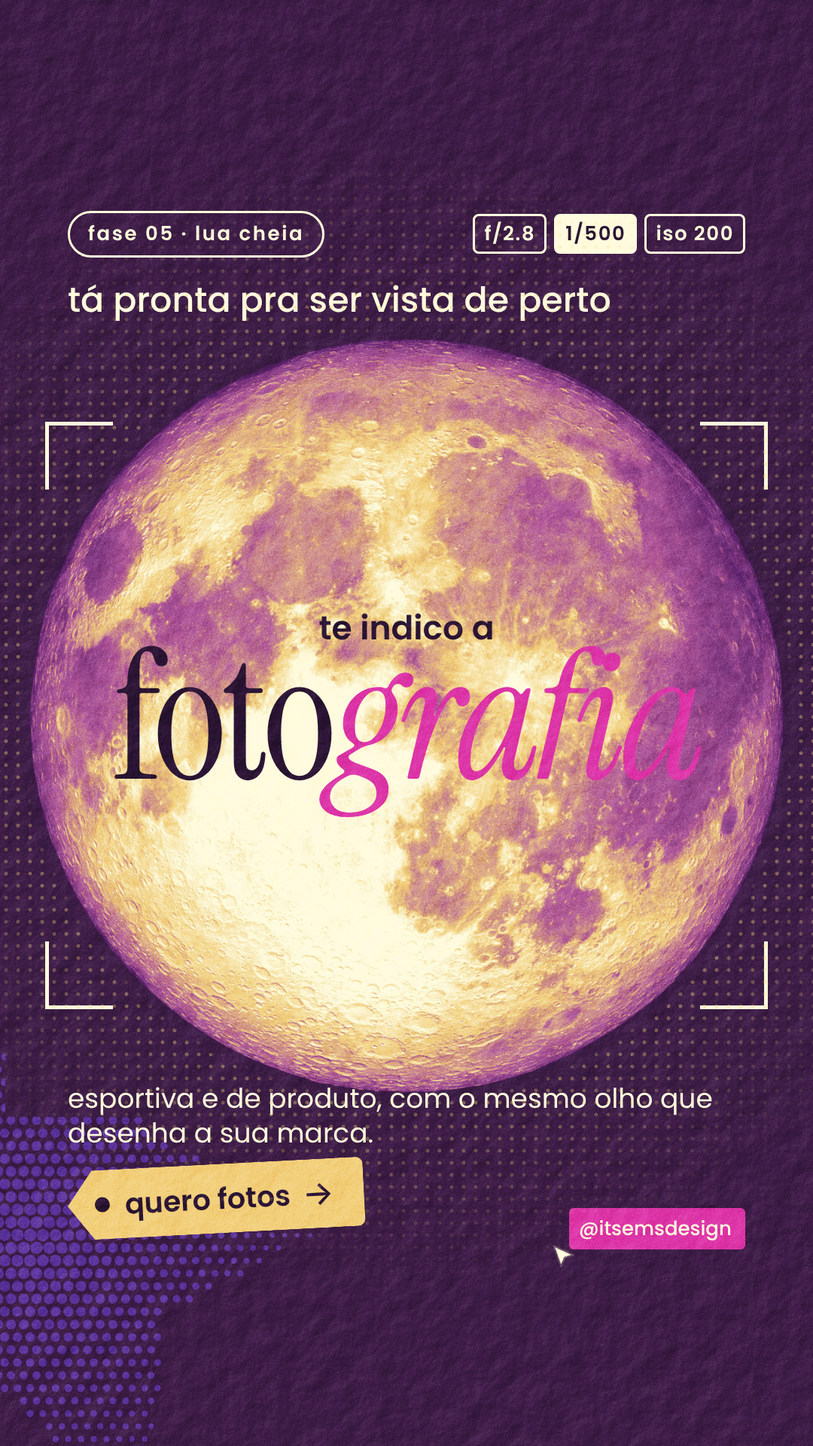
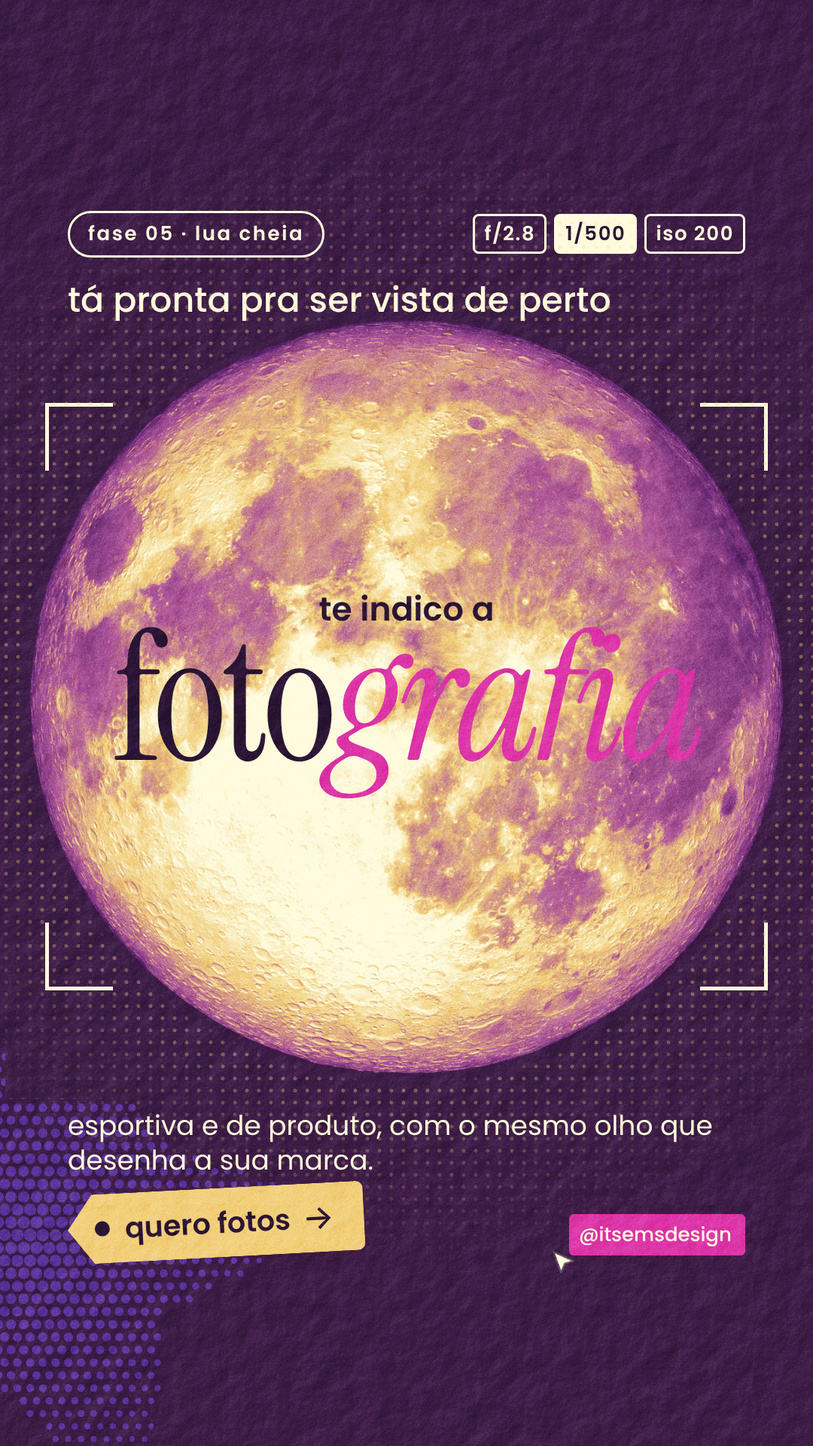
EMS stories: story 6 com o texto de apoio abaixo da lua
Claude-Session: https://claude.ai/code/session_01CmCiK84raHTtZ6V144shua

diff --git a/Emi/ems-stories-servicos/projeto/estilo.css b/Emi/ems-stories-servicos/projeto/estilo.css
@@ -99,7 +99,7 @@ h1 em, h2 em { display: block; font-style: italic; color: var(--destaque); }
 
 /* ---------- 6 · fotografia: o título escrito na lua ---------- */
 .s6 { --fundo: var(--ameixa); --destaque: var(--pink); }
-.s6 .foco { left: 60px; top: 560px; width: 960px; height: 780px; background:
+.s6 .foco { left: 60px; top: 535px; width: 960px; height: 780px; background:
   linear-gradient(var(--ivory) 0 0) 0 0 / 90px 5px, linear-gradient(var(--ivory) 0 0) 0 0 / 5px 90px,
   linear-gradient(var(--ivory) 0 0) 100% 0 / 90px 5px, linear-gradient(var(--ivory) 0 0) 100% 0 / 5px 90px,
   linear-gradient(var(--ivory) 0 0) 0 100% / 90px 5px, linear-gradient(var(--ivory) 0 0) 0 100% / 5px 90px,
@@ -108,10 +108,12 @@ h1 em, h2 em { display: block; font-style: italic; color: var(--destaque); }
 .s6 .exif { right: 90px; top: 284px; display: flex; gap: 10px; font-size: 26px; font-weight: 600; letter-spacing: .06em; }
 .s6 .exif span { border: 3px solid var(--ivory); border-radius: 8px; padding: 4px 12px; }
 .s6 .exif span:nth-child(2) { background: var(--ivory); color: var(--tinta); }
-.s6 .lead { left: 0; width: 1080px; text-align: center; top: 810px; color: var(--tinta); font-size: 44px; }
-.s6 h2 { left: 0; width: 1080px; top: 860px; font-size: 236px; color: var(--tinta); display: flex; justify-content: center; align-items: baseline; }
+.s6 .lead { left: 0; width: 1080px; text-align: center; top: 785px; color: var(--tinta); font-size: 44px; }
+.s6 h2 { left: 0; width: 1080px; top: 835px; font-size: 236px; color: var(--tinta); display: flex; justify-content: center; align-items: baseline; }
 .s6 h2 em { font-size: 236px; }
-.s6 .sub { left: 90px; top: 1436px; width: 880px; }
+.s6 .sub { left: 90px; top: 1472px; width: 880px; }
+.s6 .etiqueta { top: 1588px; }
+.s6 .arroba { top: 1612px; }
 
 /* ---------- 7 · fecho ---------- */
 .s7 { --fundo: var(--violeta); }
@@ -145,6 +147,6 @@ h1 em, h2 em { display: block; font-style: italic; color: var(--destaque); }
 .s3 .materia { background: radial-gradient(circle, rgba(192, 165, 196, .5) 2.2px, transparent 2.8px) 0 0 / 16px 16px; -webkit-mask: linear-gradient(200deg, #000 0, transparent 46%); mask: linear-gradient(200deg, #000 0, transparent 46%); }
 .s4 .materia { background: repeating-linear-gradient(0deg, rgba(255, 251, 222, .09) 0 2px, transparent 2px 7px); -webkit-mask: linear-gradient(90deg, transparent 30%, #000); mask: linear-gradient(90deg, transparent 30%, #000); }
 .s5 .materia { mix-blend-mode: soft-light; opacity: .7; background: repeating-linear-gradient(0deg, rgba(255, 255, 255, .6) 0 2px, rgba(0, 0, 0, .5) 2px 4px, transparent 4px 8px), repeating-linear-gradient(90deg, rgba(255, 255, 255, .6) 0 2px, rgba(0, 0, 0, .5) 2px 4px, transparent 4px 8px); }
-.s6 .materia { background: radial-gradient(circle, rgba(242, 207, 122, .4) 2.2px, transparent 2.8px) 0 0 / 16px 16px; -webkit-mask: radial-gradient(circle at 50% 49.5%, transparent 0 510px, #000 520px, transparent 760px); mask: radial-gradient(circle at 50% 49.5%, transparent 0 510px, #000 520px, transparent 760px); }
+.s6 .materia { background: radial-gradient(circle, rgba(242, 207, 122, .4) 2.2px, transparent 2.8px) 0 0 / 16px 16px; -webkit-mask: radial-gradient(circle at 50% 48.2%, transparent 0 510px, #000 520px, transparent 760px); mask: radial-gradient(circle at 50% 48.2%, transparent 0 510px, #000 520px, transparent 760px); }
 .s7 .materia { background: var(--tx-fibras) 0 0 / 460px; mix-blend-mode: soft-light; opacity: .9; }
 .guia .story::after { content: ""; position: absolute; left: 90px; right: 90px; top: 250px; bottom: 250px; border: 2px dashed #0f0; z-index: 99; }

diff --git a/Emi/ems-stories-servicos/projeto/stories.html b/Emi/ems-stories-servicos/projeto/stories.html
@@ -92,7 +92,7 @@
 <!-- 6 · fase 05, cheia: fotografia, o título escrito na lua -->
 <section class="story s6">
   <svg class="ht" data-star="40,1640,440,violeta2,.5,14"></svg><i class="ic brilho g" style="left:120px;top:620px;width:50px;height:50px;color:var(--ivory);opacity:0.9;transform:rotate(0deg)"></i><i class="ic brilho g" style="left:930px;top:1290px;width:60px;height:60px;color:var(--manteiga);opacity:1;transform:rotate(0deg)"></i><i class="ic brilho g" style="left:880px;top:470px;width:28px;height:28px;color:var(--lavanda);opacity:0.7;transform:rotate(0deg)"></i>
-  <i class="lua" data-f="cheia-manteiga" data-c="540,950,500"></i>
+  <i class="lua" data-f="cheia-manteiga" data-c="540,925,500"></i>
   <p class="fase"><b>fase 05 · lua cheia</b></p>
   <p class="estado">tá pronta pra ser vista de perto</p>
   <i class="foco"></i>
